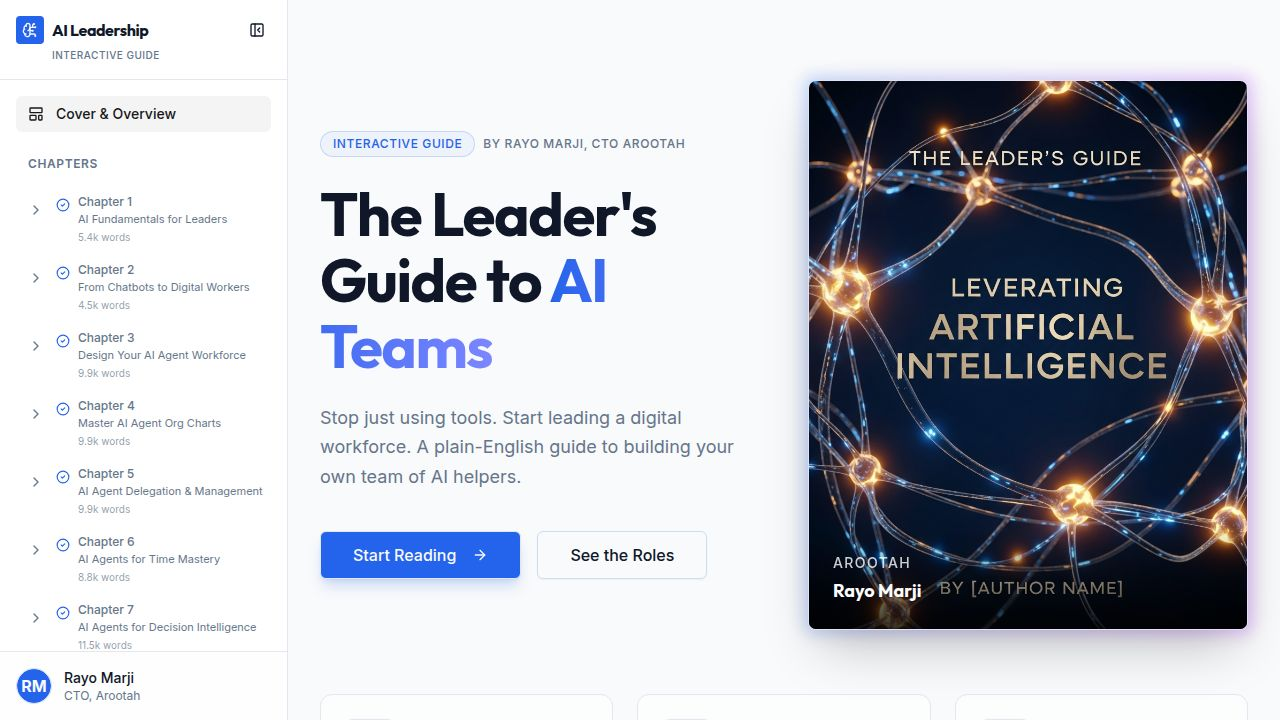
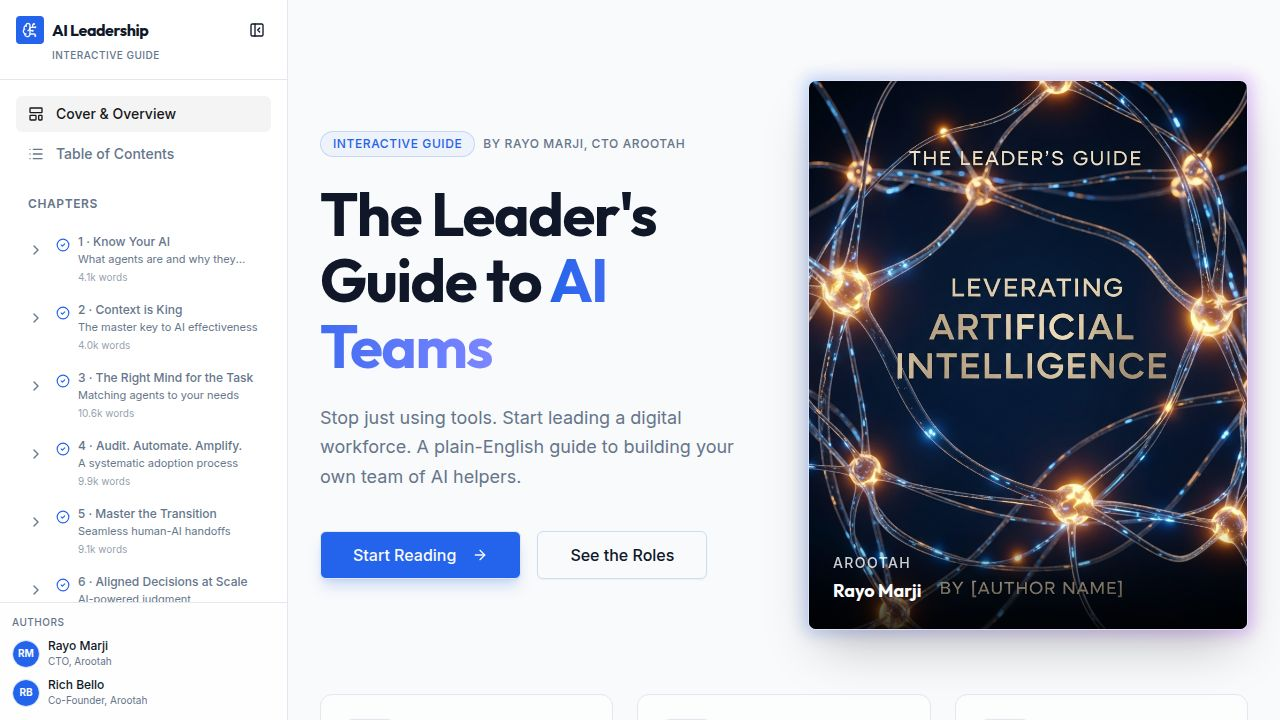
Add missing import for chapter export functionality
Adds the `exportChapterToWord` import to `client/src/pages/Chapter.tsx`.

Replit-Commit-Author: Agent
Replit-Commit-Session-Id: 916e647a-777c-43ee-83a7-edf7f3fb76fb
Replit-Commit-Checkpoint-Type: full_checkpoint
Replit-Commit-Event-Id: ed65b4ca-cf49-4879-8838-9bb03c969ebb
Replit-Commit-Screenshot-Url: https://storage.googleapis.com/screenshot-production-us-central1/0eed95ef-b36d-4849-9152-028c909187d1/916e647a-777c-43ee-83a7-edf7f3fb76fb/Gf82NUI
Replit-Helium-Checkpoint-Created: true

Changed region(s): [[0.0, 0.275, 0.2188, 0.9778], [0.0312, 0.1833, 0.125, 0.2444]]

diff --git a/client/src/pages/Chapter.tsx b/client/src/pages/Chapter.tsx
@@ -11,7 +11,7 @@ import { marked } from "marked";
 import { QualityChecklist } from "@/components/QualityChecklist";
 import { AIDiscussion } from "@/components/AIDiscussion";
 import { CritiquePanel } from "@/components/CritiquePanel";
-
+import { exportChapterToWord } from "@/lib/exportBook";
 import { ScorecardBadge } from "@/components/ScorecardBadge";
 
 function generateSlug(text: string): string {